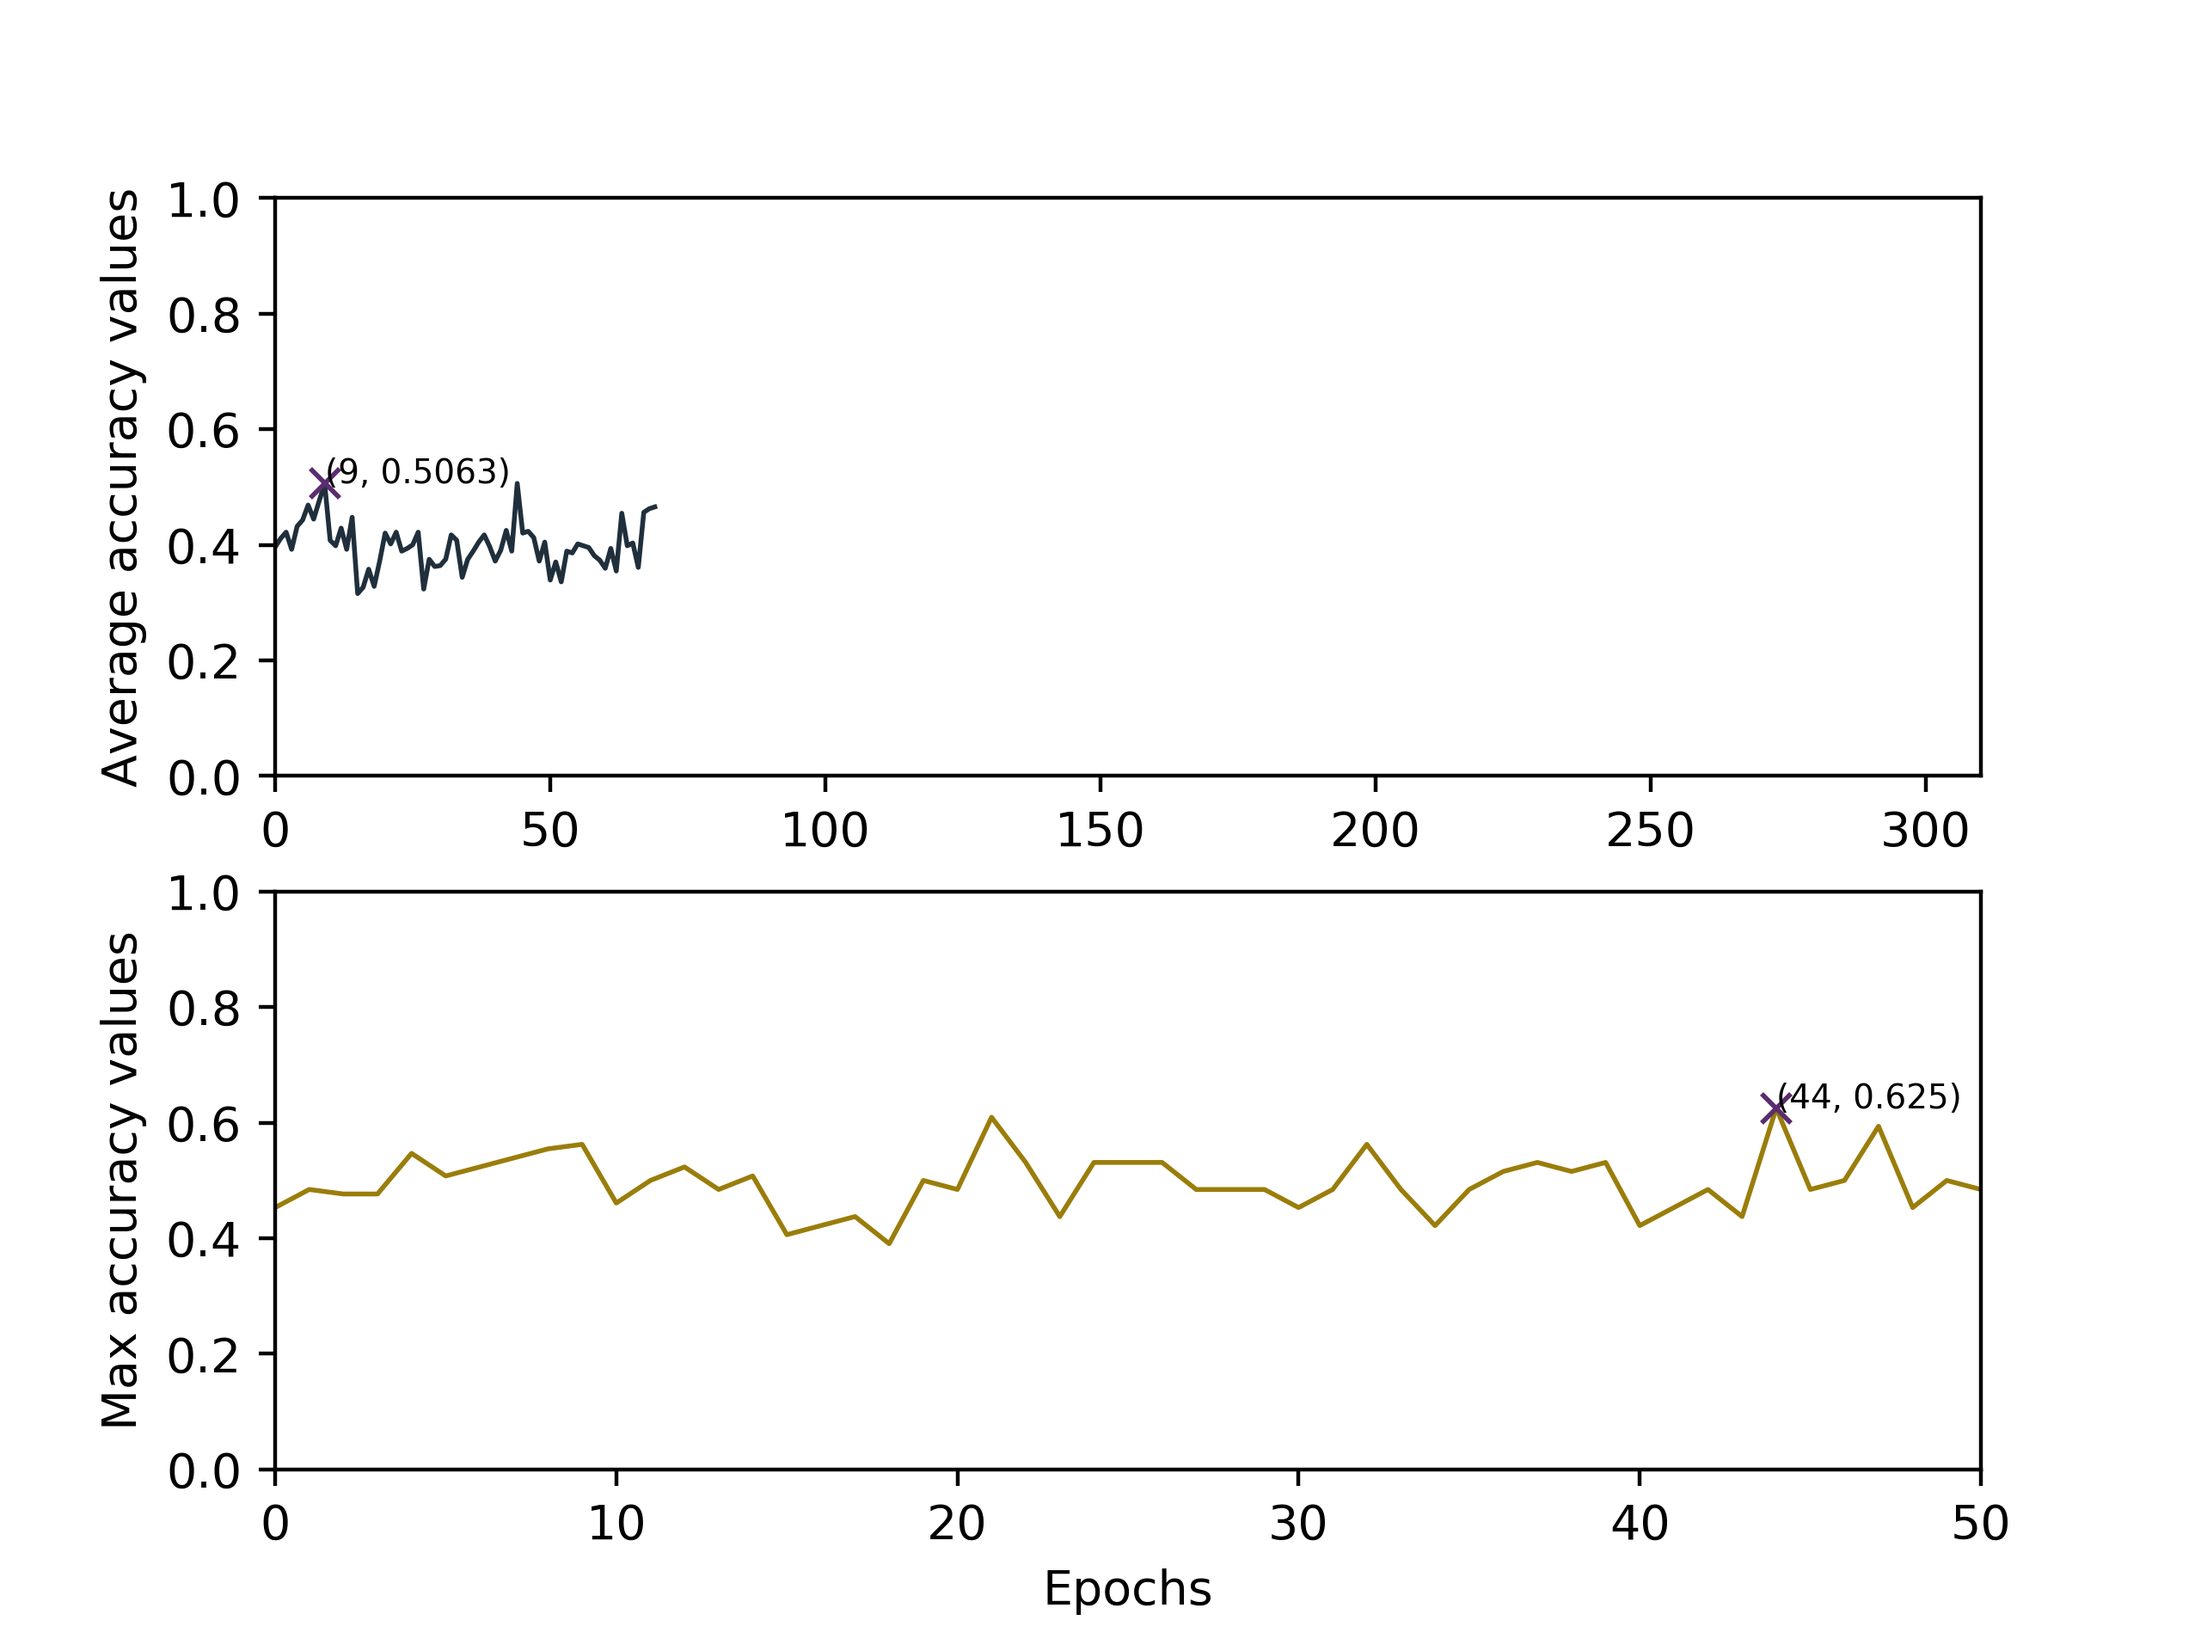
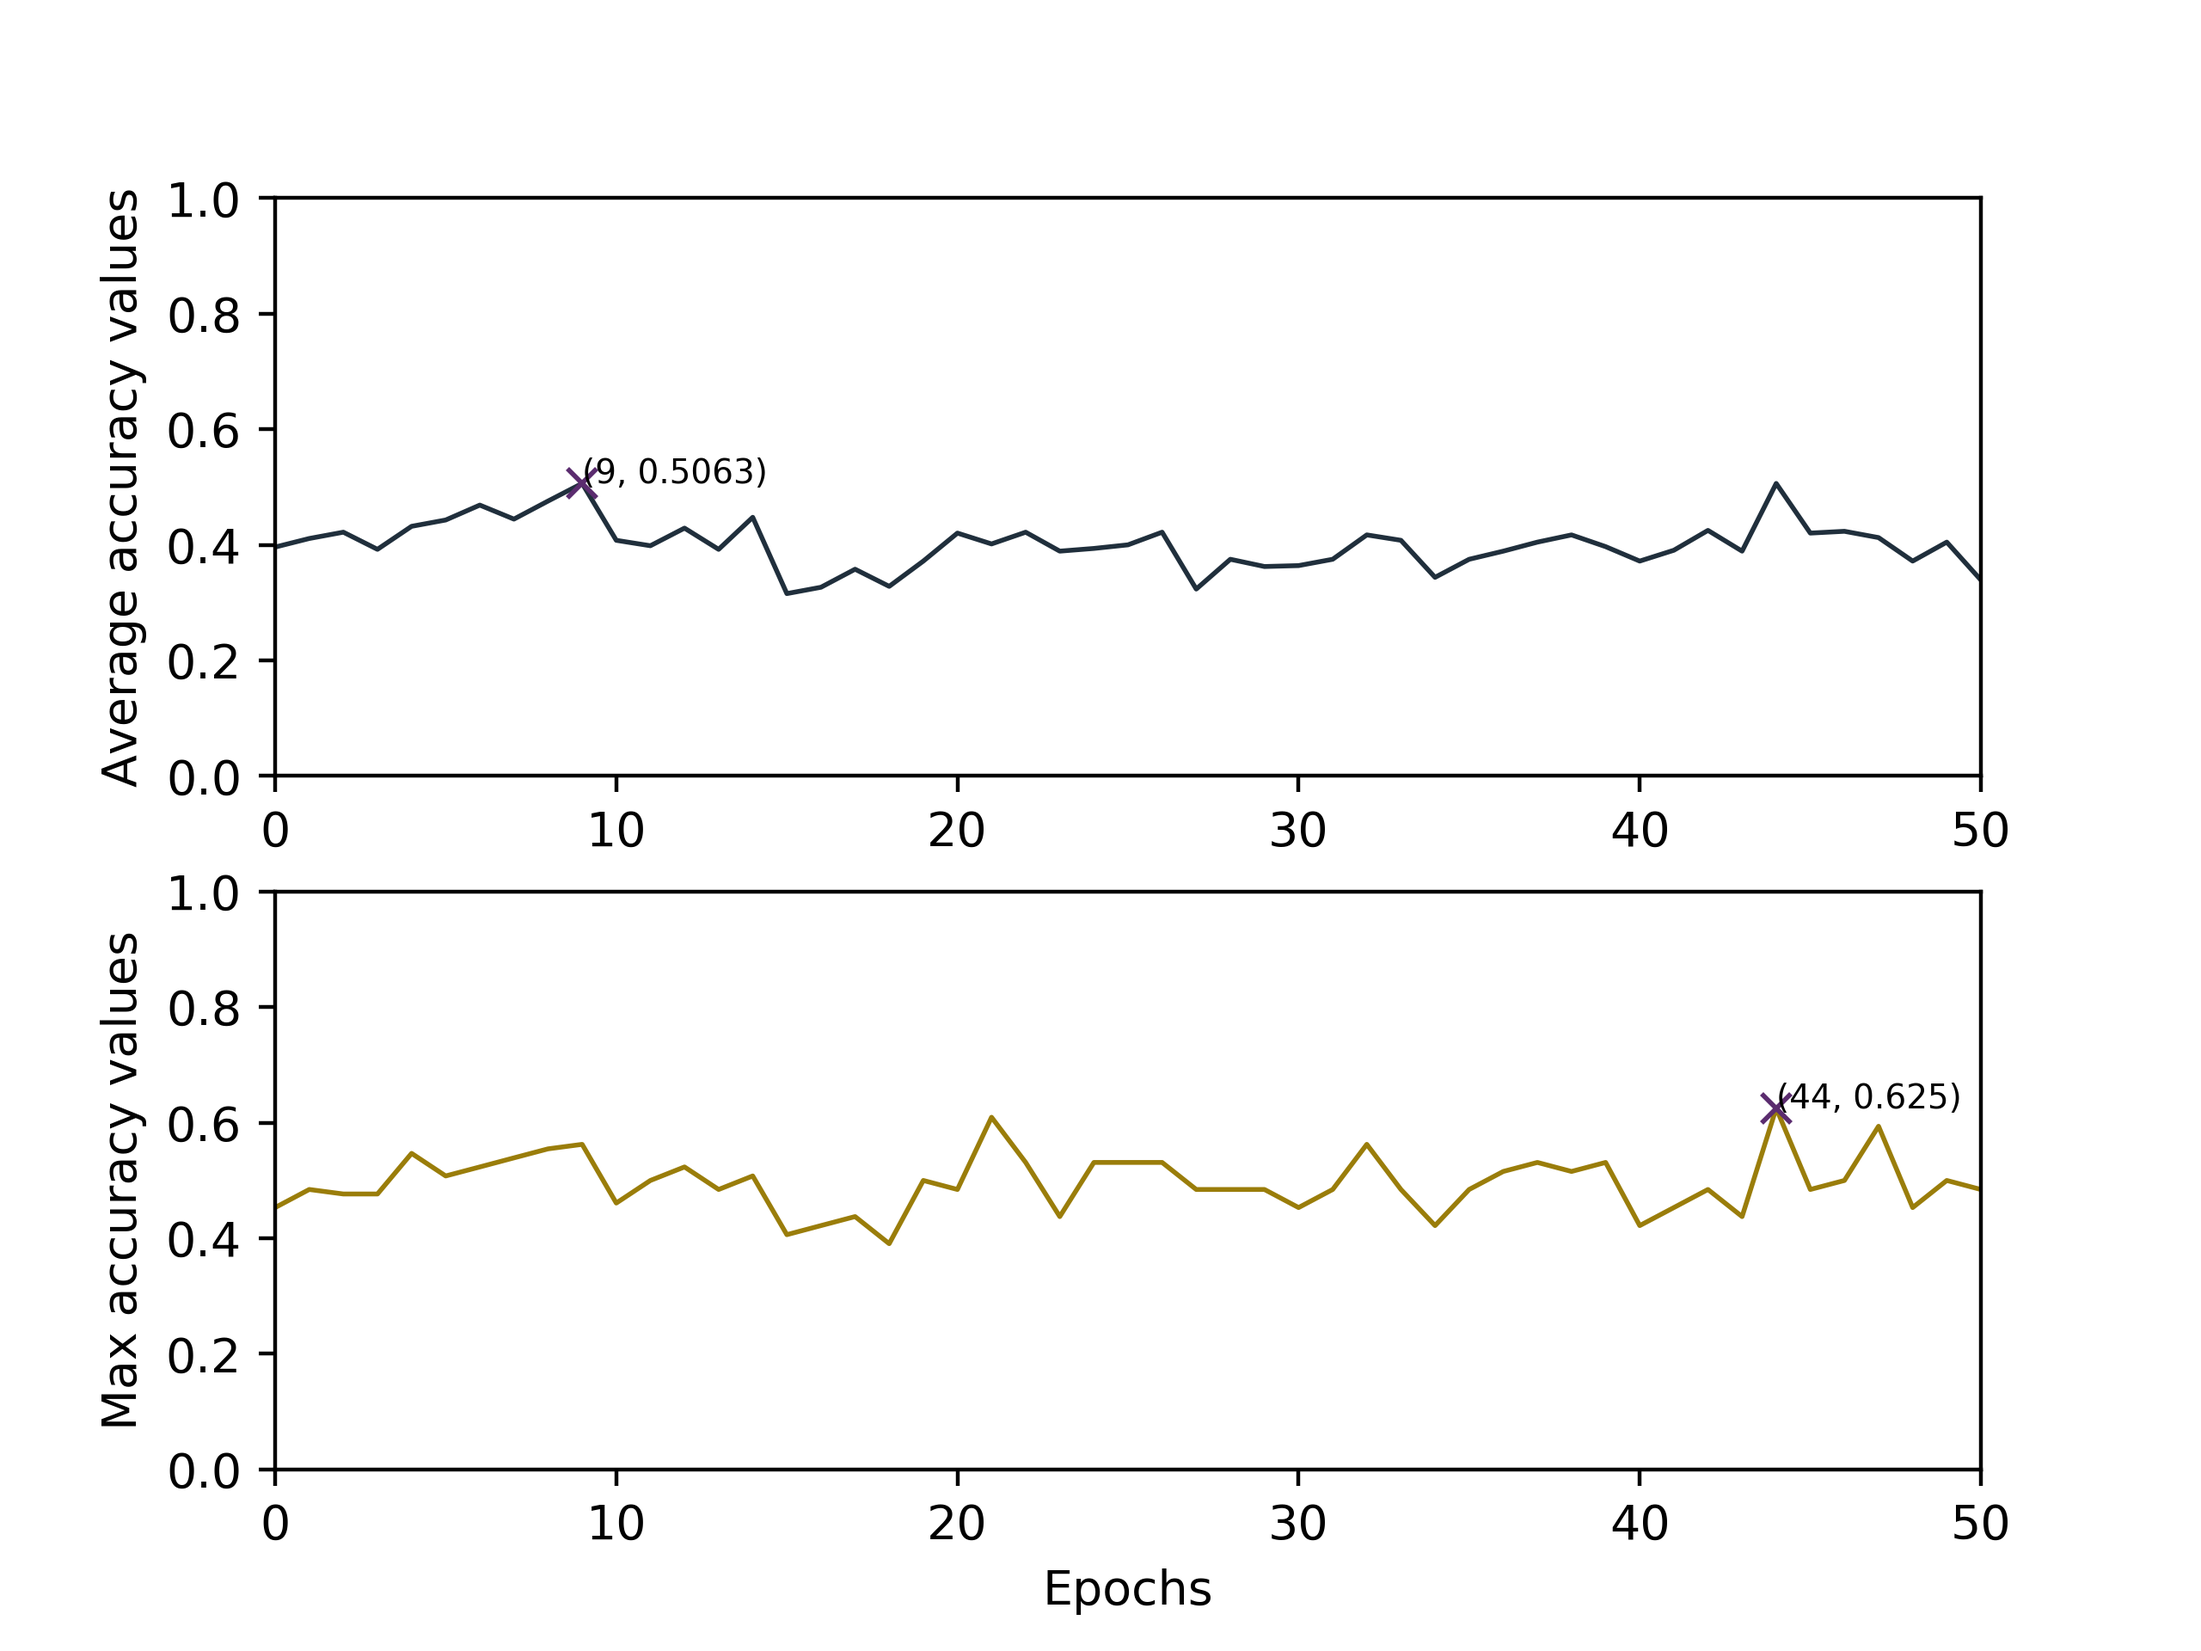
modifier script

diff --git a/enas/outputs/results/outputs_saved_graph_maker_script.py b/enas/outputs/results/outputs_saved_graph_maker_script.py
@@ -29,7 +29,7 @@ for max_point in indexes_max_values_avg:
     plt.plot(max_point, max_value_avg, 'x', color="#5B2C6F")
     plt.text(max_point, max_value_avg, '({}, {})'.format(max_point, round(max_value_avg, 4)), fontsize=7)
 plt.ylabel("Average accuracy values")
-plt.axis([0, 310, 0, 1])
+plt.axis([0, 200, 0, 1])
 
 plt.subplot(2, 1, 2)
 plt.plot(max_values, "-", color="#9A7D0A", linewidth=1)
@@ -39,7 +39,7 @@ for max_point in indexes_max_values_max:
 plt.ylabel("Average accuracy values")
 plt.ylabel("Max accuracy values")
 plt.xlabel("Epochs")
-plt.axis([0, 50, 0, 1])
+plt.axis([0, 200, 0, 1])
 
 # plt.show()
 plt.savefig('{}_graph.png'.format(file_name), dpi=400)
